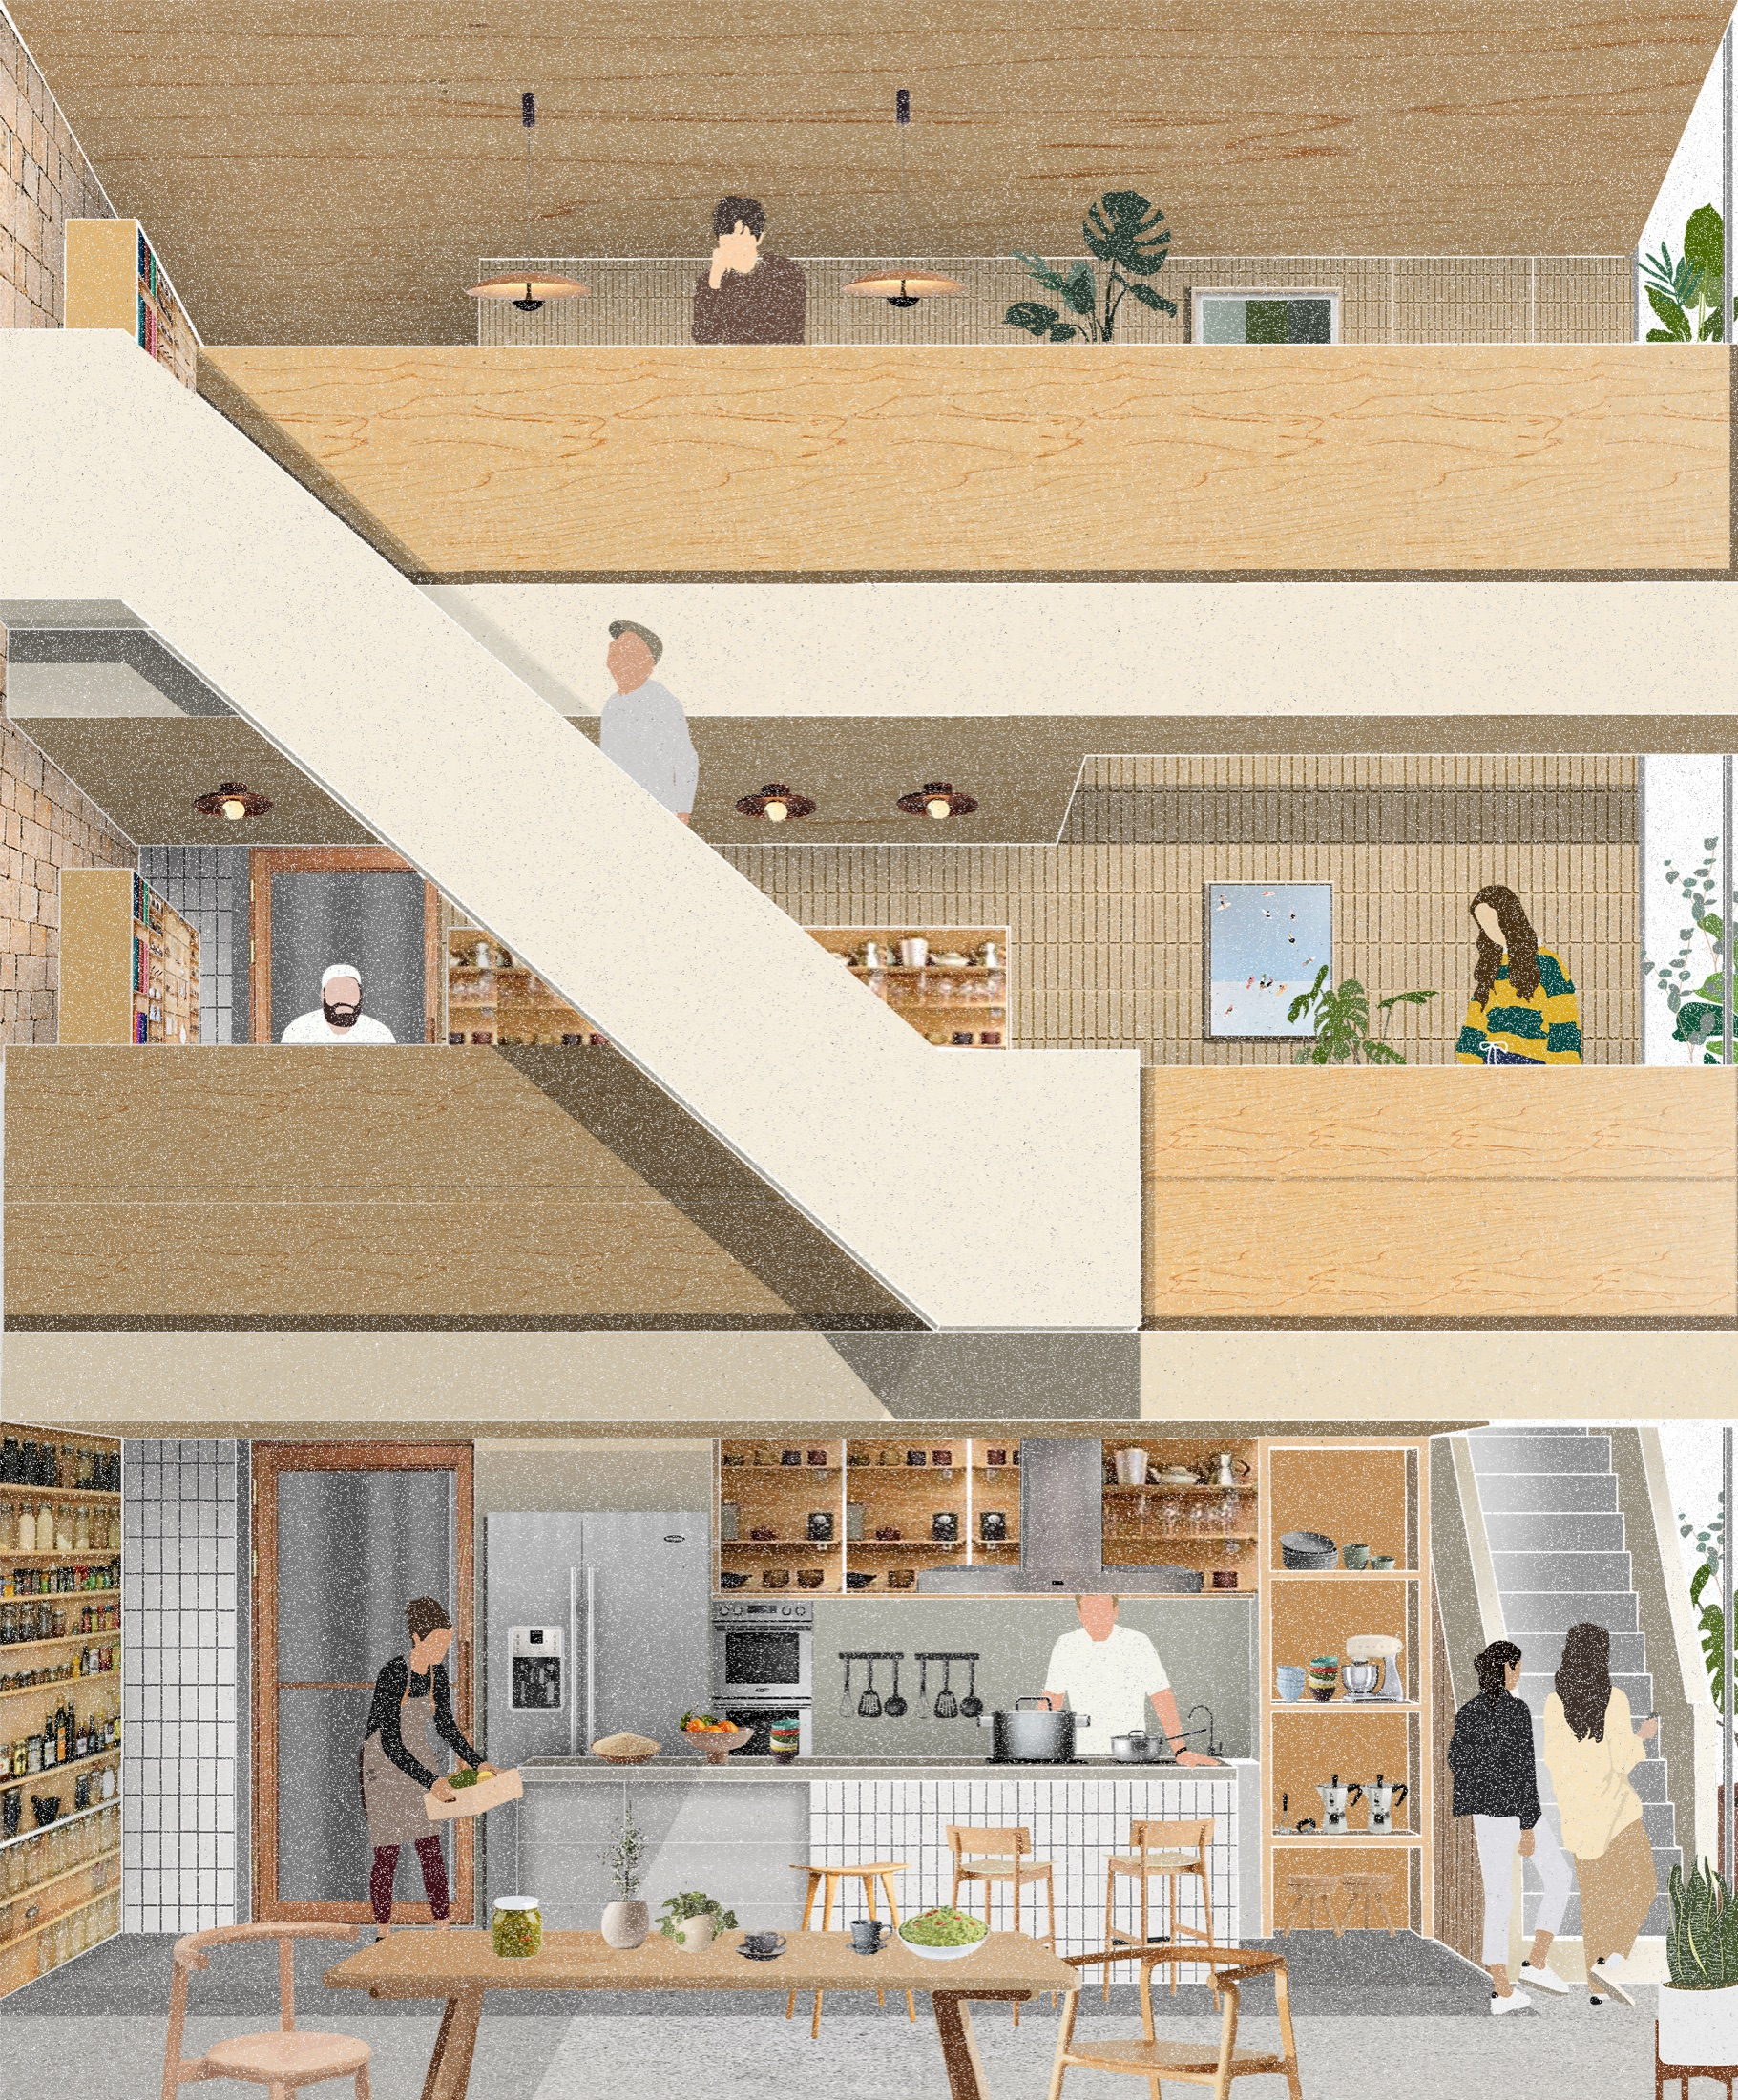
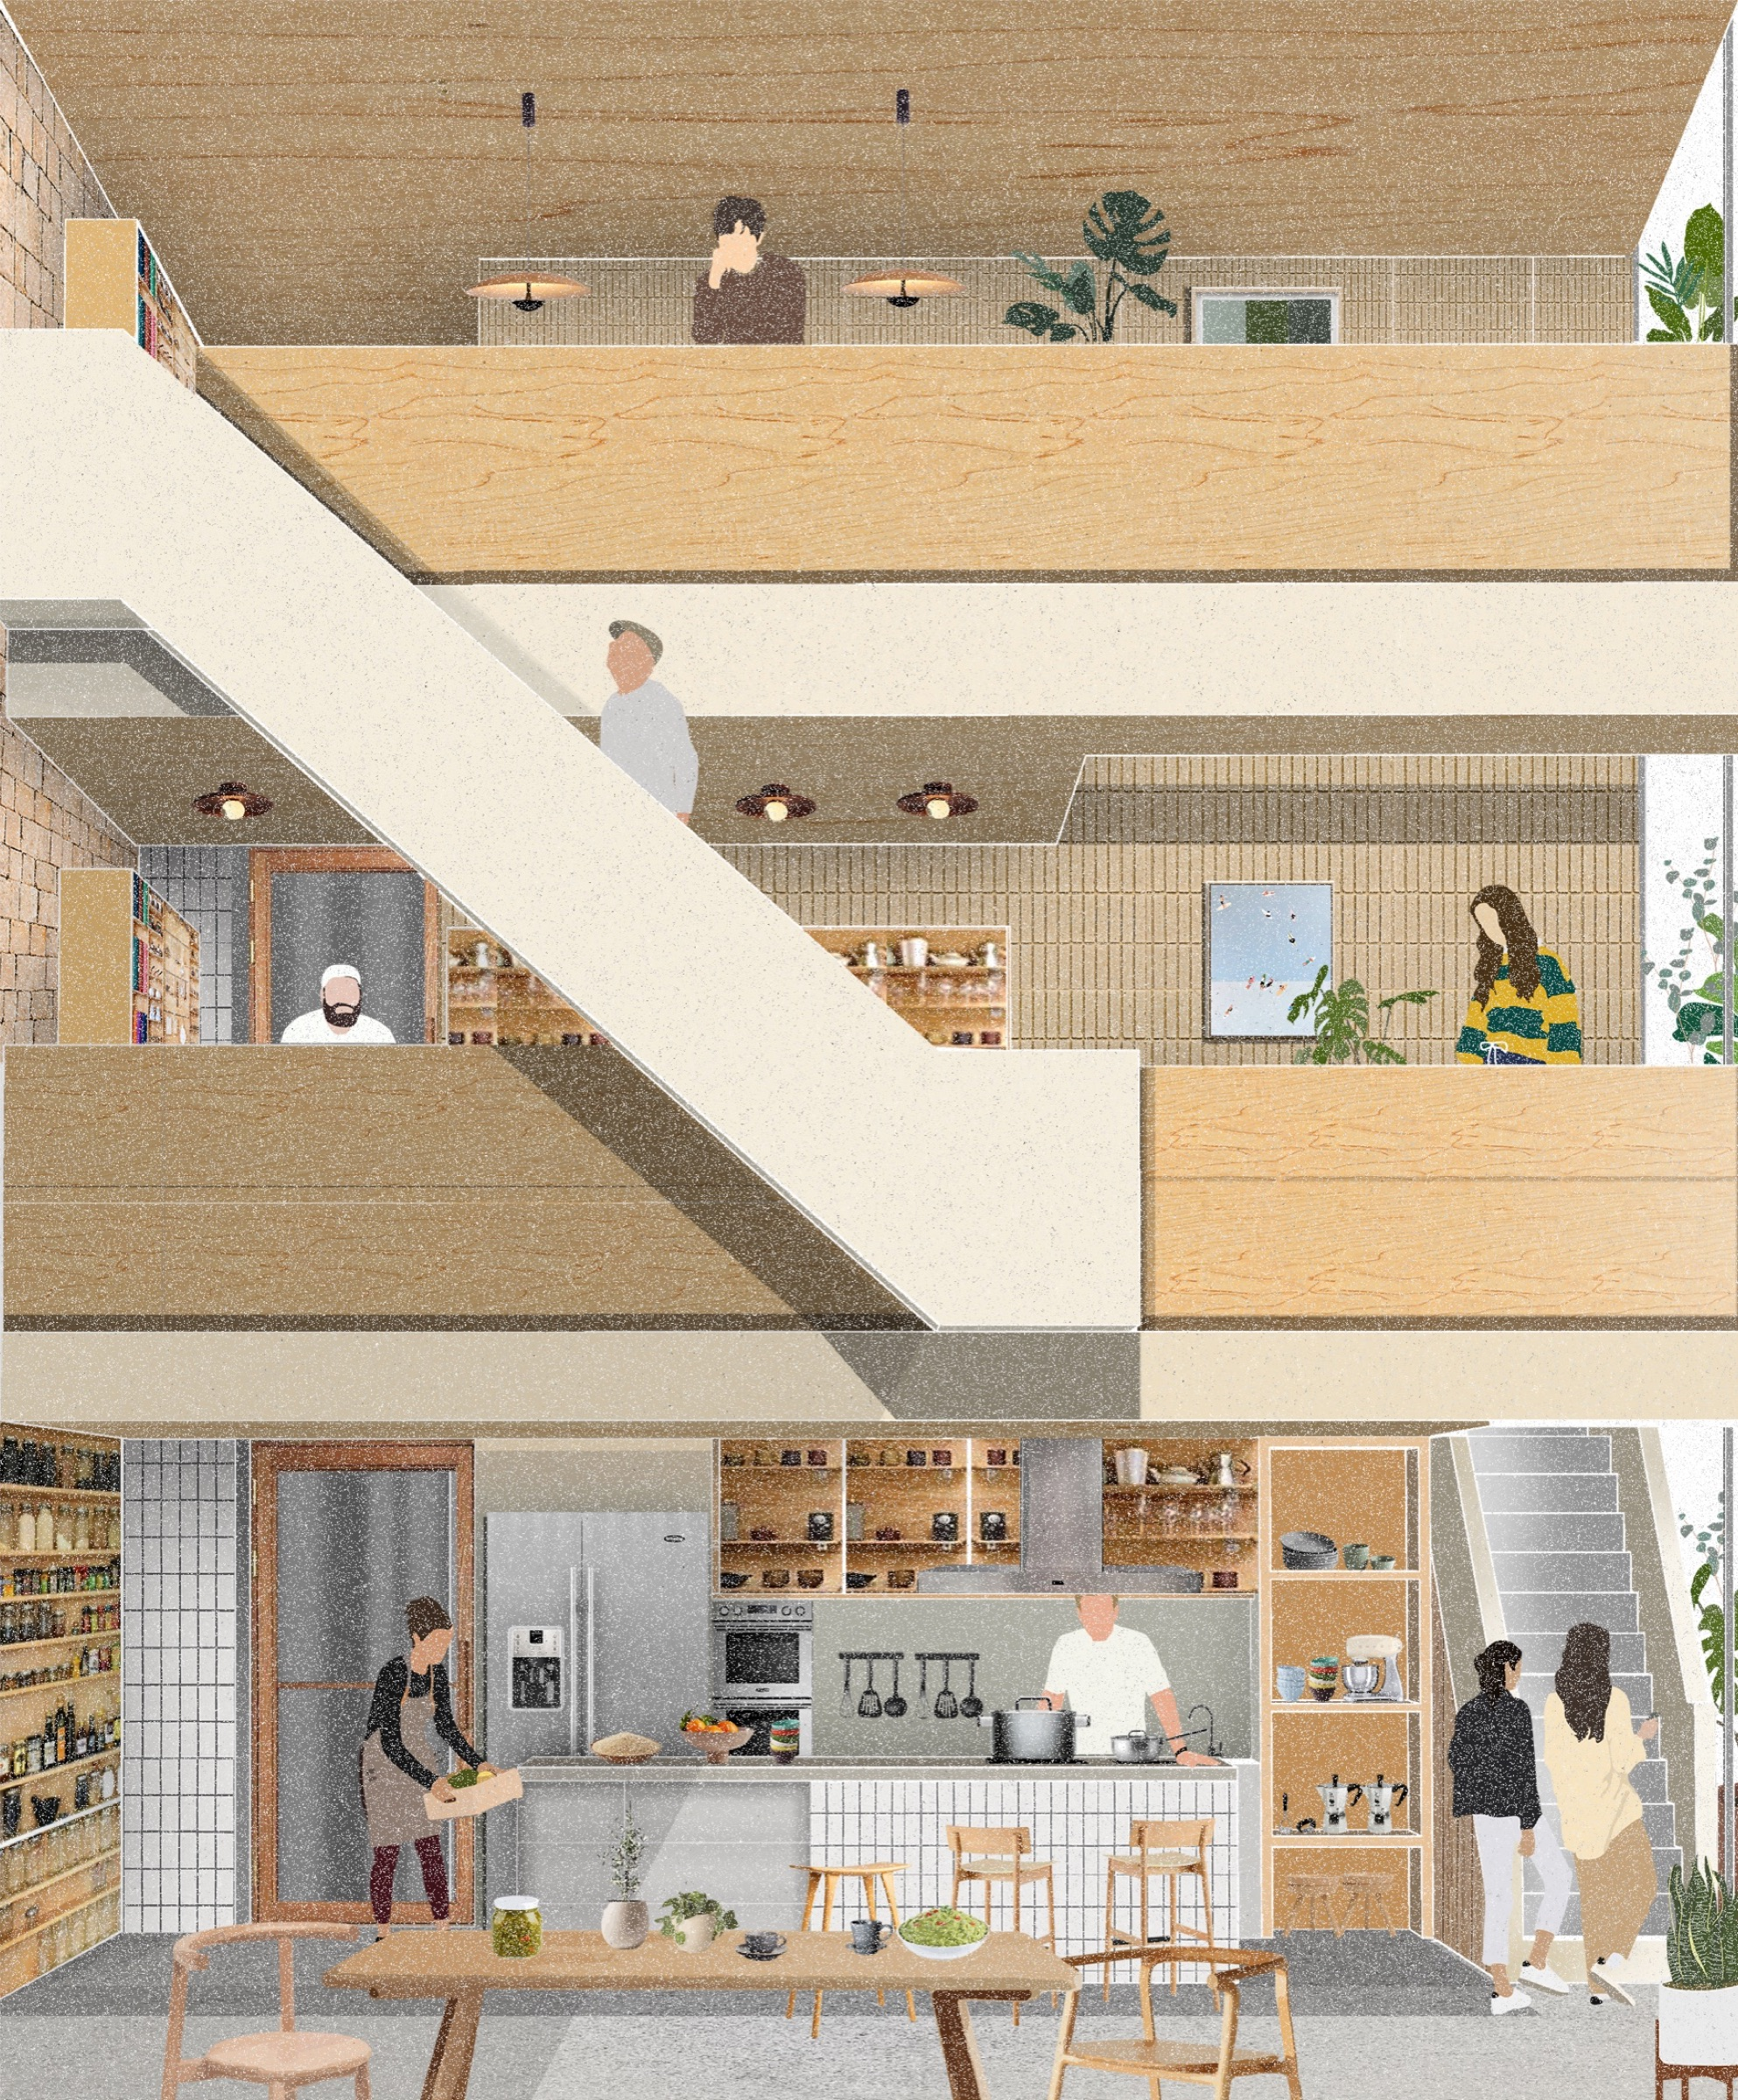
save

diff --git a/scripts/mineport-project-data.js b/scripts/mineport-project-data.js
@@ -16,9 +16,31 @@ const project1DetailImages = ["1.jpg", "1-2.jpg", "2.jpg", "2-1.jpg", "3.jpg", "
     return "../assets/images/projects/project1/detail/" + imageName + "?v=1";
 });
 
-const project1GalleryImages = ["ELE SOUTH.jpg", "FLOOR 1  DIAGRAM-01.jpg", "FLOOR 1  DIAGRAM-02.jpg", "FLOOR 1  DIAGRAM-03.jpg", "FLOOR 1   ALL DIAGRAM.jpg", "FLOOR 2  DIAGRAM.jpg", "RENDER1.jpg", "basement.jpg", "concept-02.jpg", "concept-03-01.jpg", "concept_工作區域 1.jpg", "detail.jpg", "detail2.jpg", "ele east.jpg", "floor2.jpg", "floor3.jpg", "floor 1.jpg", "funiture plan.jpg", "master plan isometric-01.jpg", "master plan isometric-03.jpg", "master plan isometric-04.jpg", "master plan isometric-06.jpg", "picture render4.jpg", "program section.jpg", "render2.jpg", "render3.jpg", "section1.jpg", "section2.jpg", "site analysis.jpg", "space developmeny-06.jpg", "space developmeny_工作區域 1 複本 2.jpg", "space developmeny_工作區域 1 複本 3.jpg", "space developmeny_工作區域 1 複本 4.jpg", "space developmeny_工作區域 1 複本 5.jpg", "space developmeny_工作區域 1 複本 6.jpg", "space developmeny_工作區域 1 複本 7.jpg", "space developme block.jpg", "volume devolment.jpg", "volume devolment-01.jpg", "volume devolment-02.jpg", "volume devolment-03.jpg", "volume devolment-04.jpg"].map(function (imageName) {
+const project1GalleryImages = ["0.jpg", "1.jpg", "1-1.jpg", "1-2.jpg", "1-3.jpg", "1-4.jpg", "2-1.jpg", "2-2.jpg", "2-3.jpg", "2-4.jpg", "2-5.jpg", "2-6.jpg", "2-7.jpg", "3-1.jpg", "3-2.jpg", "3-3.jpg", "3-4.jpg", "3-5.jpg", "3-6.jpg", "3-7.jpg", "3-8.jpg", "3-9.jpg", "4-1.jpg", "4-2.jpg", "4-3.jpg", "4-4.jpg", "4-5.jpg", "4-6.jpg", "4-7.jpg", "4-8.jpg", "5-1.jpg", "5-2.jpg", "5-3.jpg", "5-4.jpg", "5-5.jpg", "5-6.jpg", "5-7.jpg"].map(function (imageName) {
     return "../assets/images/projects/project1/gallery/" + imageName + "?v=1";
 });
+
+const project1Description = [
+    "This project creates a multifunctional workshop for a school, replacing isolated studios with a more open and collective spatial structure.",
+    "Expanded indoor and outdoor public areas turn the building into a vessel for interaction, exchange, and unexpected creative reactions among students."
+];
+
+const project1FullDescription = "Instead of separating making, discussion, and circulation into fixed zones, the proposal allows these activities to overlap throughout the building. Studio work can spill into shared areas, informal critiques can happen along circulation paths, and outdoor spaces become part of the daily rhythm of learning rather than leftover space around the building.\n\nThis arrangement encourages students to encounter work outside their own discipline and to understand creativity as something that grows through contact. The architecture supports moments of watching, joining, pausing, and exchanging, so the school environment becomes more fluid and socially active.\n\nBy treating the workshop as a living container for unpredictable interaction, the project values process as much as finished work. Its spatial organization is designed to make collaboration feel natural, allowing different ideas, routines, and personalities to meet and generate new possibilities.";
+
+const project3DetailImages = ["1.jpg", "2.jpg", "2-1.jpg", "2-2.jpg", "2-3.jpg", "3.jpg", "4.jpg", "5.jpg", "6.jpg", "7.jpg", "8.jpg", "9.jpg", "10.jpg", "11.jpg", "12.jpg", "13.jpg"].map(function (imageName) {
+    return "../assets/images/projects/project3/detail/" + imageName + "?v=1";
+});
+
+const project3GalleryImages = ["1.jpg", "1-2.jpg", "1-3.jpg", "1-4.jpg", "2-1.jpg", "3-1.jpg", "3-2.jpg", "3-3.jpg", "3-3-1.jpg", "3-3-2.jpg", "3-3-3.jpg", "3-3-4.jpg", "3-3-5.jpg", "3-3-6.jpg", "3-4.jpg", "3-5.jpg", "3-6.jpg", "3-7.jpg", "3-8.jpg", "3-9.jpg", "3-10.jpg", "3-11.jpg", "3-12.jpg", "3-13.jpg", "3-14.jpg", "4-1.jpg", "4-2.jpg", "4-3.jpg", "4-4.jpg", "4-5.jpg", "4-6.jpg", "4-7.jpg", "4-8.jpg", "4-9.jpg", "4-11.jpg", "5-1.jpg"].map(function (imageName) {
+    return "../assets/images/projects/project3/gallery/" + imageName + "?v=1";
+});
+
+const project3Description = [
+    "A church should be more than a place of worship; it should become part of daily life and the surrounding community.",
+    "The project explores how spaces for gathering, learning, support, and reflection can create a more open and welcoming spiritual environment."
+];
+
+const project3FullDescription = "The proposal rethinks sacred space as something that can remain active beyond ceremony. Flexible rooms, learning areas, social spaces, and support programs allow the building to serve different groups at different times, creating a more continuous relationship between spiritual practice and ordinary routines.\n\nLight, material, threshold, and circulation are used to shape a gradual transition from public openness to quieter moments of reflection. Rather than relying only on symbolic form, the atmosphere is built through proportion, pause, and carefully framed movement.\n\nThrough this expanded role, the church becomes a generous civic presence as well as a spiritual one. It offers places for care, conversation, guidance, and cultural exchange, helping the building strengthen social bonds while remaining calm, accessible, and emotionally grounded.";
 
 const project5GalleryImages = ["1.jpg", "2.jpg", "3.jpg", "4.jpg", "5.jpg", "6.jpg", "7.jpg", "8.jpg", "8-1.jpg", "8-2.jpg", "9.jpg", "10.jpg", "11.jpg", "12.jpg", "13.jpg", "14.jpg", "15.jpg", "16.jpg", "17.jpg", "18.jpg", "19.jpg", "20.jpg", "21.jpg", "22.jpg", "23.jpg", "24.jpg", "25.jpg", "26.jpg", "27.jpg", "28.jpg"].map(function (imageName) {
     return "../assets/images/projects/project5/gallery/" + imageName + "?v=1";
@@ -28,6 +50,13 @@ const project5DetailImages = ["1.jpg", "2.jpg", "8-2.jpg", "13.jpg", "14.jpg", "
     return "../assets/images/projects/project5/detail/" + imageName + "?v=1";
 });
 
+const project5Description = [
+    "Scene of Sense is developed as an architectural proposal rooted in atmosphere, spatial sequence, and material restraint.",
+    "The project begins with a close reading of movement, pause, and the emotional rhythm produced between enclosure and openness."
+];
+
+const project5FullDescription = "Rather than treating form as a singular object, the project is organized as a series of linked moments, where threshold, proportion, light, and visual compression gradually shape the experience of the whole. The intention is to create a setting that feels measured and quiet, while still carrying emotional depth through contrast, texture, and pacing.\n\nAcross the proposal, surfaces are edited carefully so that each junction, opening, and transition contributes to a more continuous architectural narrative. Light is used not only to illuminate the space, but also to structure attention, soften boundaries, and clarify the hierarchy between public and intimate zones.\n\nMaterial choices are imagined as part of the same composition, allowing weight, reflection, shadow, and tactile presence to work together instead of competing for emphasis. In this way, Scene of Sense becomes less a static formal statement and more a carefully paced environment, where each movement reveals another layer of spatial character, visual stillness, and lived atmosphere over time.";
+
 const project6GalleryImages = ["1.jpg", "2.jpg", "3.jpg", "4.jpg", "5.jpg", "5-1.jpg", "6.jpg", "6-1.jpg", "7.jpg", "8.jpg", "9.jpg", "10.jpg", "11.jpg", "12.jpg", "13.jpg", "14.jpg", "15.jpg", "16.jpg", "17.jpg", "18.jpg", "19.jpg", "20.jpg", "21.jpg", "22.jpg", "23.jpg", "24.jpg", "25.jpg", "26.jpg", "27.jpg", "28.jpg", "29.jpg"].map(function (imageName) {
     return "../assets/images/projects/project6/gallery/" + imageName + "?v=1";
 });
@@ -36,32 +65,32 @@ const project6DetailImages = ["1.jpg", "2.jpg", "5.jpg", "5-1.jpg", "13.jpg", "1
     return "../assets/images/projects/project6/detail/" + imageName + "?v=1";
 });
 
-const project6FullDescription = "This campus proposal evolves from a previous design investigation and explores the integration of interaction design and biomedical engineering within an interdisciplinary research environment. The project aims to create a platform that fosters collaboration between emerging technologies, human-centered design, and biomedical innovation. Through the rethinking of conventional laboratory typologies, the proposal examines how spatial organization can facilitate experimentation, knowledge exchange, and interdisciplinary interaction.\n\nThe design focuses on spatial innovation, conceptual transformation, and the development of laboratory environments that respond to contemporary societal challenges and technological advancements. By investigating appropriate laboratory scales, flexible research spaces, and collaborative learning environments, the project seeks to establish a new architectural framework that supports both scientific research and creative exploration. Ultimately, the proposal envisions a campus building that serves not only as a place for experimentation and innovation but also as an interface connecting technology, human experience, and the future of interdisciplinary education.";
+const project6FullDescription = "The proposal examines how architecture can support an interdisciplinary research environment where technological experimentation, human-centered design, and biomedical innovation are brought into closer relationship. Rather than treating laboratories as isolated technical rooms, the project considers them as active spaces for exchange, observation, collaboration, and shared discovery.\n\nDifferent research activities require different degrees of openness, privacy, flexibility, and technical control, so the spatial organization responds to changing forms of scientific work. Laboratory spaces, collaborative learning areas, circulation, and shared public zones are arranged to encourage both focused research and informal interdisciplinary interaction.\n\nThrough this approach, the project rethinks the conventional laboratory typology as a more adaptive and communicative architectural framework. The lab becomes not only a place for scientific production, but also a spatial interface between emerging technology, design thinking, education, and contemporary social challenges.";
 
 const project6Description = [
-    "This campus proposal evolves from a previous design investigation and explores the integration of interaction design and biomedical engineering within an interdisciplinary research environment.",
-    "The project aims to create a platform that fosters collaboration between emerging technologies, human-centered design, and biomedical innovation."
+    "This campus proposal, derived from a previous design, explores the integration of interaction design and biomedical engineering.",
+    "It focuses on spatial innovation, conceptual transformation, and laboratory scales that respond to evolving societal needs."
 ];
 
 window.MINEPORT_PROJECT_DETAIL_DATA = [
-    createProjectDetail("Double Interaction", "Taipei, Taiwan", "Education", "Architecture", "2024 Summer", ["A spatial study shaped by shifting views, layered circulation, and a quiet exchange between structure and movement.", "The project is conceived as a sequence of measured moments where public openness and intimate pause can coexist."], "../assets/images/projects/project1/card/project1.jpg", project1DetailImages, project1GalleryImages),
+    createProjectDetail("Double Interaction", "Campus workshop", "Education", "Architecture", "2024 Summer", project1Description, "../assets/images/projects/project1/card/project1.jpg", project1DetailImages, project1GalleryImages, project1FullDescription),
     createProjectDetail("Euphoria", "Senior Center", "Residential", "Architecture", "2023 Fall", ["Located in Toad Mountain, Taipei, this Senior Center uses dispersed volumes for resting, rehabilitation, social interaction, and reading, giving elderly users a freer and gentler daily rhythm."], "../assets/images/projects/project2/card/project2.jpg", ["1.jpg", "2-3.jpg", "2-4.jpg", "2-5.jpg", "2-6.png", "3.jpg", "4.jpg", "5.jpg", "5-1.jpg", "12.png", "13.png"].map(function (imageName) {
         return "../assets/images/projects/project2/detail/" + imageName + "?v=3";
     }), ["1.jpg", "3.jpg", "4.jpg", "5.jpg", "6.jpg", "7.jpg", "8.jpg", "9.jpg", "10.jpg", "11.png", "12.png", "13.png", "14.jpg", "15.jpg", "16.jpg", "17.jpg", "18.jpg", "19.jpg", "20.png", "21.jpg"].map(function (imageName) {
         return "../assets/images/projects/project2/gallery/" + imageName + "?v=11";
-    }), "The dispersed volumes respond to the existing topography and natural texture of Toad Mountain, following the slope and vegetation to create a blurred boundary between architecture and landscape. Rather than functioning as a singular object, the building becomes a walkable environment where elderly users can naturally engage with air, light, and greenery through movement. Semi-outdoor corridors and courtyards connect the different volumes, creating safe yet explorative spaces that encourage slow daily movement and physical activity.\n\nThe project emphasizes familiarity and legibility through variations in scale, openings, and materiality, allowing residents to easily recognize and navigate the spaces while reducing feelings of disorientation. A balance between open communal areas and quiet private corners also supports both social interaction and moments of solitude.\n\nUltimately, the design redefines the senior center not merely as a functional care facility, but as a living community integrated with nature and everyday life, where aging becomes a continuous and gentle experience rather than a condition of isolation."),
-    createProjectDetail("Light, Stone, Hope", "Taipei, Taiwan", "Religious", "Architecture", "2024 Fall", ["A design composition where light and material weight are balanced to produce a restrained but emotional field.", "The visual language stays minimal while allowing texture, shadow, and proportion to carry the narrative."], "../assets/images/projects/project3/card/project3.jpg"),
+    }), "Following the slope and existing vegetation, the architecture creates a softer boundary between built space and landscape. Semi-outdoor corridors, courtyards, and shaded transitional areas allow movement to become part of the daily experience, giving users access to air, light, and greenery without relying on a single central hall.\n\nThe project emphasizes familiarity and legibility through variations in scale, openings, and materiality, helping residents recognize and navigate each area with ease. Communal spaces are balanced with quiet corners, supporting both social connection and moments of personal rest.\n\nUltimately, the senior center is imagined as a living community integrated with nature and everyday routines. Aging is treated not as a condition of isolation, but as a continuous experience supported by movement, care, and a gentle relationship with the surrounding environment."),
+    createProjectDetail("Light, Stone, Hope", "Church", "Religious", "Architecture", "2024 Fall", project3Description, "../assets/images/projects/project3/card/project3.jpg", project3DetailImages, project3GalleryImages, project3FullDescription),
     createProjectDetail("Stone Horizon House", "Los Angeles, USA", "Residential", "Architecture", "2024 Spring", ["A residential concept framed by long horizons, low silhouettes, and a measured relationship between land and enclosure.", "The project explores how stillness can be expressed through geometry, light, and carefully edited material transitions."], "../assets/images/projects/project4/card/project4.jpg"),
-    createProjectDetail("Stone Horizon House", "Los Angeles, USA", "Culture", "Architecture", "2023 Winter", ["An interior-forward reading of the project that focuses on tactile surfaces, tone, and a disciplined editing of detail.", "Furniture, openings, and circulation are treated as part of one continuous visual composition."], "../assets/images/projects/project5/card/project5.jpg", project5DetailImages, project5GalleryImages),
-    createProjectDetail("Stone Horizon House", "Interdisciplinary Lab", "Education", "Architecture", "2025 Summer", project6Description, "../assets/images/projects/project6/card/project6.jpg", project6DetailImages, project6GalleryImages, project6FullDescription),
+    createProjectDetail("Scene of Sense", "Children's Theater", "Culture", "Architecture", "2023 Winter", project5Description, "../assets/images/projects/project5/card/project5.jpg", project5DetailImages, project5GalleryImages, project5FullDescription),
+    createProjectDetail("Meditouch", "Interdisciplinary Lab", "Education", "Architecture", "2025 Summer", project6Description, "../assets/images/projects/project6/card/project6.jpg", project6DetailImages, project6GalleryImages, project6FullDescription),
     createProjectDetail("Kitchenless", "COLLECTIVE HOUSING", "Residential", "Architecture", "2024 Winter", ["This kitchenless social housing concept optimizes space and cost while encouraging community through shared kitchens.", "It responds to food delivery, meal services, and sustainability trends with a more affordable, resource-efficient model for urban living."], "../assets/images/projects/project7/card/project7.jpg", [1, 6, 7, 9, 10, 11, 12, 14, 18].map(function (imageNumber) {
         return "../assets/images/projects/project7/detail/" + imageNumber + ".jpg?v=1";
-    }), ["1.jpg", "1-1.jpg", "1-2.jpg", "1-3.png", "1-4.jpg", "2.jpg", "3.jpg", "4.jpg", "5.jpg", "6.jpg", "7.jpg", "8.jpg", "9.jpg", "10.jpg", "11.jpg", "12.jpg", "13.jpg", "14.jpg", "15.jpg", "16.jpg", "17.jpg", "18.jpg", "19.jpg", "20.jpg"].map(function (imageName) {
+    }), ["1.jpg", "1-1.jpg", "1-2.jpg", "1-3.jpg", "1-4.jpg", "2.jpg", "3.jpg", "4.jpg", "4-1.jpg", "5.jpg", "6.jpg", "7.jpg", "8.jpg", "9.jpg", "10.jpg", "11.jpg", "11-1.jpg", "12.jpg", "13.jpg", "14.jpg", "15.jpg", "16.jpg", "16-1.jpg", "17.jpg", "18.jpg", "18-2.jpg", "18-3.jpg", "18-4.jpg", "19.jpg", "20.jpg"].map(function (imageName) {
         return "../assets/images/projects/project7/gallery/" + imageName + "?v=4";
-    }), "By removing private kitchens from individual units, the proposal shifts cooking from an isolated domestic function into a shared social infrastructure. Communal kitchens become places for exchange, care, and everyday encounter, while compact units can remain flexible, affordable, and easier to maintain. The project also reflects changing urban habits, where food delivery, prepared meals, and shared services reduce the need for fully equipped private kitchens in every home. In this model, housing becomes more than a collection of rooms; it becomes a resource-conscious living system that supports lower costs, reduced duplication, stronger community ties, and a more sustainable way of sharing space in dense cities."),
+    }), "Cooking is reimagined as a collective routine that can produce social contact as well as daily support. Shared food spaces become places where residents meet, exchange help, and build small rituals of community, while the private units remain compact, efficient, and easier to maintain.\n\nThe proposal also responds to changing urban habits, where delivery services, prepared meals, and shared facilities alter the role of the domestic kitchen. Instead of duplicating the same infrastructure in every unit, resources are concentrated into communal areas that can serve more people with greater flexibility.\n\nIn this model, housing becomes more than a collection of rooms. It operates as a resource-conscious living system that reduces cost, limits redundancy, and creates stronger social ties through the shared use of space."),
     createProjectDetail("Stone Horizon House", "Los Angeles, USA", "Culture", "Architecture", "2025 Fall", ["A visual narrative built from fragments of landscape, form, and silhouette rather than a single fixed object.", "The imagery focuses on atmosphere, contrast, and the emotional pacing of each frame."], "../assets/images/projects/project8/card/project8.jpg"),
     createProjectDetail("Stone Horizon House", "Los Angeles, USA", "Culture", "Architecture", "2026 Summer", ["A design exercise in compositional order, highlighting how proportion and alignment can carry visual clarity.", "Small shifts in edge, rhythm, and material tone shape the overall reading of the space."], "../assets/images/projects/project9/card/project9.jpg"),
     createProjectDetail("Stone Horizon House", "Los Angeles, USA", "Residential", "Architecture", "2020-2024", ["An updated architectural proposal that refines the dialogue between envelope, light, and circulation.", "The project privileges spatial atmosphere over statement, allowing experience to unfold gradually."], "../assets/images/projects/project4/card/project4.jpg"),
     createProjectDetail("Stone Horizon House", "Los Angeles, USA", "Education", "Design", "2019-2026", ["A spatial design proposal centered on editing, restraint, and the visual weight of each surface condition.", "The composition seeks balance between tactile intimacy and overall formal control."], "../assets/images/projects/project5/card/project5.jpg", project5DetailImages, project5GalleryImages),
-    createProjectDetail("Stone Horizon House", "Interdisciplinary Lab", "Religious", "Architecture", "2018-2022", project6Description, "../assets/images/projects/project6/card/project6.jpg", project6DetailImages, project6GalleryImages, project6FullDescription)
+    createProjectDetail("Meditouch", "Interdisciplinary Lab", "Religious", "Architecture", "2018-2022", project6Description, "../assets/images/projects/project6/card/project6.jpg", project6DetailImages, project6GalleryImages, project6FullDescription)
 ];

diff --git a/index.html b/index.html
@@ -4,7 +4,10 @@
     <meta charset="UTF-8">
     <meta name="viewport" content="width=device-width, initial-scale=1.0">
     <title>YLX studio</title>
-    <link rel="stylesheet" href="styles/mineport.css?v=166">
+    <link rel="preconnect" href="https://fonts.googleapis.com">
+    <link rel="preconnect" href="https://fonts.gstatic.com" crossorigin>
+    <link href="https://fonts.googleapis.com/css2?family=Inter:wght@100..900&display=swap" rel="stylesheet">
+    <link rel="stylesheet" href="styles/mineport.css?v=167">
     <link rel="stylesheet" href="styles/mineport-overlays.css?v=4">
 </head>
 <body>
@@ -45,7 +48,7 @@
             </div>
 
             <form class="form" id="enterForm" autocomplete="off">
-                <input class="input" type="text" placeholder="Name · only en." id="name" autocomplete="off" autocorrect="off" autocapitalize="off" spellcheck="false" inputmode="latin" pattern="[A-Za-z][A-Za-z\\s'-]*" title="Please enter your name in English letters.">
+                <input class="input" type="text" placeholder="Name" id="name" autocomplete="off" autocorrect="off" autocapitalize="off" spellcheck="false">
                 <button class="btn" type="submit" id="enterButton" disabled>Enter</button>
             </form>
         </div>
@@ -149,7 +152,7 @@
                 <article class="project-card" data-category="architecture" data-year="2023 Winter">
                     <div class="project-image image-grid-05"></div>
                     <div class="project-caption">
-                        <h2>Stone Horizon House</h2>
+                        <h2>Scene of Sense</h2>
                         <p>Culture</p>
                         <p>2023, Winter</p>
                     </div>
@@ -158,7 +161,7 @@
                 <article class="project-card" data-category="architecture" data-year="2025 Summer">
                     <div class="project-image image-grid-06"></div>
                     <div class="project-caption">
-                        <h2>Stone Horizon House</h2>
+                        <h2>Meditouch</h2>
                         <p>Education</p>
                         <p>2025, Summer</p>
                     </div>
@@ -167,7 +170,7 @@
                 <article class="project-card" data-category="architecture" data-year="2024 Winter">
                     <div class="project-image image-grid-07"></div>
                     <div class="project-caption">
-                        <h2>Stone Horizon House</h2>
+                        <h2>Kitchenless</h2>
                         <p>Residential</p>
                         <p>2024, Winter</p>
                     </div>

diff --git a/scripts/mineport.js b/scripts/mineport.js
@@ -336,15 +336,14 @@ document.addEventListener("DOMContentLoaded", function () {
         enterButton.disabled = nameInput.value.trim() === "";
     }
 
-    function sanitizeEnglishName(value) {
+    function sanitizeDisplayName(value) {
         return (value || "")
-            .replace(/[^A-Za-z\s'-]/g, "")
             .replace(/\s{2,}/g, " ")
             .replace(/^\s+/, "");
     }
 
     function formatDisplayName(value) {
-        return sanitizeEnglishName(value)
+        return sanitizeDisplayName(value)
             .toLowerCase()
             .replace(/\b[a-z]/g, function (match) {
                 return match.toUpperCase();

diff --git a/styles/mineport.css b/styles/mineport.css
@@ -269,9 +269,9 @@ a {
     min-height: 1.2em;
     max-width: none;
     color: #111111;
-    font-family: "Neue Haas Grotesk Display", "Helvetica Neue", "Avenir Next", "SF Pro Display", Arial, sans-serif;
+    font-family: "Inter", Arial, sans-serif;
     font-size: clamp(3.5rem, 6.6vw, 7.4rem);
-    font-weight: 200;
+    font-weight: 100;
     letter-spacing: -0.045em;
     text-transform: none;
     white-space: nowrap;